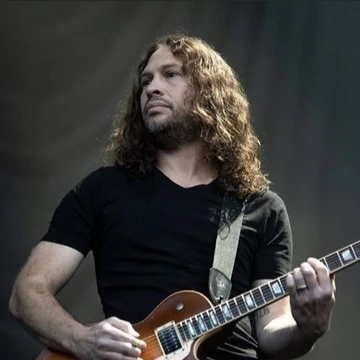
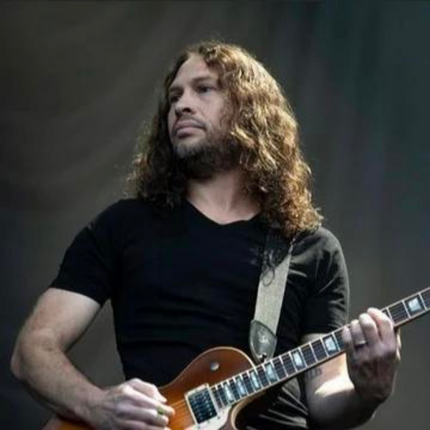
Arreglo tamaño de imagenes

diff --git a/SRC/albumes.html b/SRC/albumes.html
@@ -37,8 +37,11 @@
       <section class="albumes">
         <div class="caratulas">
           <div class="card">
-            <img src="img/True lives of the fabulous killjoys.jpg" />
-            <p class="nombreAlbum">Danger days: the true lives of the Fabulous Killjoys (2010)</p>
+            <input type="checkbox" id="firstAlbumClick">
+              <label for="firstAlbumClick" id="showSongs">
+               <img src="img/True lives of the fabulous killjoys.jpg" />
+               <p class="nombreAlbum">Danger days: the true lives of the Fabulous Killjoys (2010)</p>
+              </label>
           </div>
           <div class="card">
             <img src="img/blackparade.jpg" />
@@ -78,78 +81,78 @@
                 </th>
               </tr>
             </thead>
-            <tbody>
-              <tr>
+            <tbody class="songsFirstsAlbum">
+              <tr class="songsFirstsAlbum" >
                 <th scope="row">1</th>
                 <td colspan="2">Look Alive, Sunshine</td>
                 <td>0:30</td>
               </tr>
-              <tr>
+              <tr class="songsFirstsAlbum">
                 <th scope="row">2</th>
                 <td colspan="2">Na Na Na</td>
                 <td>3:26</td>
               </tr>
-              <tr>
+              <tr class="songsFirstsAlbum">
                 <th scope="row">3</th>
                 <td colspan="2">Bulletproof Heart</td>
                 <td>4:57</td>
               </tr>
-              <tr>
+              <tr class="songsFirstsAlbum">
                 <th scope="row">4</th>
                 <td colspan="2">Sing</td>
                 <td>4:30</td>
               </tr>
-              <tr>
+              <tr class="songsFirstsAlbum">
                 <th scope="row">5</th>
                 <td colspan="2">Planetary (GO!)</td>
                 <td>4:07</td>
               </tr>
-              <tr>
+              <tr class="songsFirstsAlbum">
                 <th scope="row">6</th>
                 <td colspan="2">The Only Hope For Me Is You</td>
                 <td>4:33</td>
               </tr>
-              <tr>
+              <tr class="songsFirstsAlbum">
                 <th scope="row">7</th>
                 <td colspan="2">Jet-Start and the Kobra Kid/Traffic Report</td>
                 <td>0:26</td>
               </tr>
-              <tr>
+              <tr class="songsFirstsAlbum">
                 <th scope="row">8</th>
                 <td colspan="2">Party Poison</td>
                 <td>3:36</td>
               </tr>
-              <tr>
+              <tr class="songsFirstsAlbum">
                 <th scope="row">9</th>
                 <td colspan="2">Save Yourself, I’ll Hold Them Back</td>
                 <td>3:50</td>
               </tr>
-              <tr>
+              <tr class="songsFirstsAlbum">
                 <th scope="row">10</th>
                 <td colspan="2">S/C/A/R/E/C/R/O/W 4</td>
                 <td>4:28</td>
               </tr>
-              <tr>
+              <tr class="songsFirstsAlbum">
                 <th scope="row">11</th>
                 <td colspan="2">Summertime</td>
                 <td>4:07</td>
               </tr>
-              <tr>
+              <tr class="songsFirstsAlbum">
                 <th scope="row">12</th>
-                <td colspan="2">. DESTROYA</td>
+                <td colspan="2">DESTROYA</td>
                 <td>4:33</td>
               </tr>
-              <tr>
+              <tr class="songsFirstsAlbum">
                 <th scope="row">13</th>
                 <td colspan="2">The Kids from Yesterday</td>
                 <td>5:25</td>
               </tr>
-              <tr>
+              <tr class="songsFirstsAlbum">
                 <th scope="row">14</th>
                 <td colspan="2">Goognite, Dr.Death</td>
                 <td>1:59</td>
               </tr>
-              <tr>
+              <tr class="songsFirstsAlbum">
                 <th scope="row">15</th>
                 <td colspan="2">Vampire Money - amen</td>
                 <td>3:38</td>
@@ -159,5 +162,10 @@
         </aside>
       </section>
     </main>
+    <footer> 
+      <div class="footer">
+        <p>Camila Forero 2022</p> 
+    </div>
+    </footer>
   </body>
 </html>

diff --git a/SRC/index.css b/SRC/index.css
@@ -35,6 +35,9 @@ nav li {
   padding-left: 2%;
   padding-right: 2%;
 }
+a{
+  color: #ffffff;
+}
 a:active {
   color: #ffffff;
   font-weight: bold;
@@ -55,7 +58,6 @@ p {
   display: flex;
   position: relative;
   width: 100%;
-  overflow: hidden; 
 }
 .carousel-item active{
   object-fit: contain;
@@ -121,24 +123,26 @@ h3 {
  }
  .caratulas img{
   display: flex;
-  width: 90%;
   margin: 10%;
   border-radius: 5px;
-  height: 80%;
+  width: 80%;
 }
 .nombreAlbum{
   padding: 1%;
 }
+
 .info_albumes{
   width: 45%;
-  max-height: 1050px;
-  display: flex;
-  justify-content:left;
+  max-height: fit-content;
   border-radius: 5px;
   background-color: rgba(217, 217, 217, 0.2);
   padding-top: 2%;
   padding: 1%;
+  padding-bottom: 0%;
+ /* visibility: hidden;*/
+ 
 }
+
 .titulo_canción{
   width: 100%;
   margin-left: 5%;
@@ -153,26 +157,48 @@ th{
 td{
   color: #ffffff;
 }
+/*Eventos click*/
+
+/*input[type="checkbox"]:checked ~ .info_albumes{
+  visibility: visible;
+}*/
+
 
 /*Estilos biografias*/
 .info_bio{
   display: flex;
   justify-content: center;
-  
+  width: 45%;
+  border-radius: 5px;
+  background-color: rgba(217, 217, 217, 0.2);
+  padding: 1%;
+  overflow-y: auto;
 }
 .img_biografias{
   width: 50%;
   margin-top: 3%;
+  max-height: 50%;
 }
 .img_biografias img{
   width: 100%;
   border-radius: 5px;
   position: relative;
   top: 3%;
-}
-.bio{
-  position: absolute;
-  margin-top:37%;
-  width: 36%;
   
+}
+.bio {
+  position:absolute;
+  margin-top:30%;
+  width: 36%; 
+  text-align: justify;
+  font-size: 1rem;
+  }
+/*Footer*/
+.footer{
+  padding-top: 7%;
+  color: #ffffff;
+  text-align: center;
+  vertical-align: middle;
+  font-size: 12px;
+  justify-items: center;
 }

diff --git a/SRC/Biografias.html b/SRC/Biografias.html
@@ -65,7 +65,7 @@
             </p>
           </div>
         </div>
-          <aside class="info_albumes info_bio">
+          <aside class="info_bio">
             <div class="img_biografias">
               <h3>Gerard Way</h3>
               <img src="img/Gerard way.jpg" alt="Gerard Way">
@@ -73,13 +73,17 @@
             <div class="bio">
                 <p>
                   Gerard Arthur Way  es un músico, cantante y escritor de cómics estadounidense, conocido por ser el vocalista de la banda My Chemical Romance, cantante en solitario, autor del cómic The Umbrella Academy y fundador del sello editorial Young Animal.
-                  Nacimiento: 9 de abril de 1977 (edad 45 años)
+                  Nacimiento: 9 de abril de 1977 (edad 45 años).
                 </p>
             </div>
           </aside>
-
         </div>
       </section>
     </main>
+    <footer> 
+      <div class="footer">
+        <p>Camila Forero 2022</p> 
+    </div>
+    </footer>
   </body>
 </html>

diff --git a/SRC/inicio.html b/SRC/inicio.html
@@ -55,5 +55,10 @@
       </div>
     </section>
   </main>
+  <footer> 
+    <div class="footer">
+      <p>Camila Forero 2022</p> 
+  </div>
+  </footer>
 </body>
 </html>

diff --git a/SRC/README.md b/SRC/README.md
@@ -1,7 +1,18 @@
-# Página-tributo-MCR
-=
+<h1 align="center"> Página Tributo a My Chemical Romance </h1> 
+
+
 
 Creación de página tributo a la banda My Chemical Romance, con:
--HTML 
--CSS 
--Bootstrap
+
+- HTML 
+- CSS 
+- Bootstrap
+
+Para este proyecto se practico la clonación de repositorios, aunque no me base en el repositorio clonado.
+Primero cree el header que es igual para cada vista, para esto tuve que llamar en el archivo de estilos (index.css) a la fuente previamente descargada al realizar los mockups, para el titulo principal del header. Esto por medio de @font-face que permite poner fuentes propias sin depender de las fuentes instaladas por el usuario.
+
+
+![Header](https://user-images.githubusercontent.com/86115727/193873397-c394fb1f-f8e5-4a30-b3b1-251a0d418248.PNG)
+
+
+
